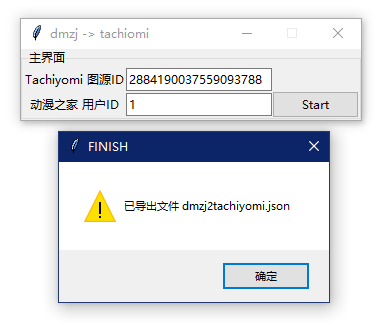
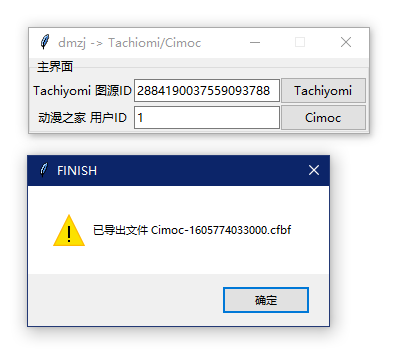
add cimoc

Changed region(s): [[0.0289, 0.0299, 0.9842, 0.9552]]

diff --git a/main.py b/main.py
@@ -2,16 +2,18 @@
 
 import json
 import re
+import time
 import tkinter as tk
 from threading import Thread
 from tkinter import messagebox, ttk
+from typing import Generator
 
 import requests
 from lxml import etree
 
 
 class transfer(object):
-    def hisSubscribe(self, page) -> set:
+    def hisSubscribe(self, page) -> Generator:
         data = {
             'page': page,
             'type_id': '1',
@@ -29,54 +31,86 @@ class transfer(object):
         if len(table) <= 0:
             raise ValueError
         for x in table:
-            title = ''.join(x.xpath('./dd/a[@class="title"]/text()'))
-            comicid = ''.join(
-                x.xpath('./dd/a[@class="addSubBtn dread_btn"]/@onclick'))
-            comicid = ''.join(re.findall(r'\d+', comicid))
-            yield (comicid, title)
+            title = x.xpath('./dd/a[@class="title"]/text()')[0]
+            comicid = x.xpath('./dd/a[@class="addSubBtn dread_btn"]/@onclick')[0]
+            comicid = re.findall(r'\d+', comicid)[0]
+            print(comicid)
+            cover = x.xpath('./dt/a/img/@src')[0]
+            yield (comicid, title, cover)
 
     def turnPage(self):
         p = 1
-        comicList = []
+        self.comicList = []
         while True:
             try:
-                comicList += [{
-                    "manga": [
-                        f"/comic/comic_{comic[0]}.json?version=2.7.019",
-                        comic[1], self.comicSourceID, 0, 0
-                    ]
-                } for comic in self.hisSubscribe(p)]
+                self.comicList += [
+                    {
+                        "id": comic[0],
+                        "title": comic[1],
+                        "cover": comic[2]  # Comic 必须要此字段
+                    } for comic in self.hisSubscribe(p)
+                ]
             except ValueError:
                 break
             p += 1
 
-        backupData = {
-            "version": 2,
-            "mangas": comicList,
-            "categories": [],
-            "extensions": [f"{self.comicSourceID}:动漫之家"]
-        }
-        with open('dmzj2tachiyomi.json', 'w', encoding='utf-8-sig') as f:
-            json.dump(backupData, f, ensure_ascii=False)
-
-    def check(self):
+    def check(self, dist):
         self.comicSourceID = self.sourceIDBox.get()
         self.uid = self.userIDBox.get()
-        if self.comicSourceID.isdigit() and self.uid.isdigit():
-            self.turnPage()
-        else:
-            messagebox.showwarning(u'ERROR', u'无效的源ID或用户ID')
+        if not self.uid.isdigit():
+            messagebox.showwarning(u'ERROR', u'无效的用户ID')
             return None
-        messagebox.showwarning(u'FINISH', u'已导出文件 dmzj2tachiyomi.json')
+        favorite = round(time.time()) * 1000  # Comic 必须要此字段
+        if dist == 1:
+            if not self.comicSourceID.isdigit():
+                messagebox.showwarning(u'ERROR', u'无效的源ID')
+                return None
+            self.turnPage()
+            comicList = [{
+                "manga": [
+                    f"/comic/comic_{comic['id']}.json?version=2.7.019",
+                    comic['title'], self.comicSourceID, 0, 0
+                ]
+            } for comic in self.comicList]
+            backup = {
+                "version": 2,
+                "mangas": comicList,
+                "categories": [],
+                "extensions": [f"{self.comicSourceID}:动漫之家"]
+            }
+            with open(f'Tachiyomi-{favorite}.json', 'w',
+                      encoding='utf-8-sig') as f:
+                json.dump(backup, f, ensure_ascii=False)
+            messagebox.showwarning(u'FINISH',
+                                   f'已导出文件 Tachiyomi-{favorite}.json')
+        elif dist == 2:
+            self.turnPage()
+            comicList = [{
+                "source": 10,
+                "cid": f"{comic['id']}",
+                "title": f"{comic['title']}",
+                "cover": f"{comic['cover']}",
+                "finish": False,
+                "favorite": favorite
+            } for comic in self.comicList]
+            backup = {
+                "version": 1,
+                "comic": comicList,
+            }
+            with open(f'Cimoc-{favorite}.cfbf', 'w',
+                      encoding='utf-8-sig') as f:
+                json.dump(backup, f, ensure_ascii=False,
+                          separators=(',', ':'))  # Comic 备份文件不能有换行和空格
+            messagebox.showwarning(u'FINISH', f'已导出文件 Cimoc-{favorite}.cfbf')
 
-    def run(self):
-        task = Thread(target=self.check)
+    def run(self, dist):
+        task = Thread(target=self.check, args=(dist, ))
         task.setDaemon(True)
         task.start()
 
     def __init__(self):
         window = tk.Tk()
-        window.title("dmzj -> tachiomi")
+        window.title("dmzj -> Tachiomi/Cimoc")
         window.resizable(False, False)
         mainFrame = ttk.LabelFrame(window, width=200, text='主界面')
         mainFrame.grid(column=0, row=0)
@@ -94,7 +128,13 @@ class transfer(object):
                                       textvariable=self.userIDBox)
         userIDBox_entered.grid(column=1, row=1)
 
-        RunButton = ttk.Button(mainFrame, text='Start', command=self.run)
+        RunButton = ttk.Button(mainFrame,
+                               text='Tachiyomi',
+                               command=lambda: self.run(1))
+        RunButton.grid(column=2, row=0)
+        RunButton = ttk.Button(mainFrame,
+                               text='Cimoc',
+                               command=lambda: self.run(2))
         RunButton.grid(column=2, row=1)
         window.mainloop()
 

diff --git a/README.md b/README.md
@@ -1,10 +1,14 @@
 # 动漫之家订阅导出工具
 
-导出动漫之家的漫画订阅到[Tachiyomi](https://github.com/inorichi/tachiyomi)
+导出动漫之家的漫画订阅到[Tachiyomi](https://github.com/inorichi/tachiyomi) 和 Cimoc([feilongfl](https://github.com/feilongfl/Cimoc)/[Haleydu](https://github.com/Haleydu/Cimoc))
 
 ## 使用方式
 
+Cimoc备份路径在 sdcard\Cimoc\backup
+Tachiyomi备份路径在 sdcard\Download
+
 1. 网页端登录[动漫之家](https://i.dmzj.com/my)，找到自己的UID
+Cimoc用户可以跳过 2-4 直接导出cfbf文件，在Cimoc中选择恢复备份。
 ![](img/uid.png)
 
 2. 在[Tachiyomi](https://github.com/inorichi/tachiyomi)中添加动漫之家，收藏任一漫画，创建备份
@@ -18,6 +22,7 @@
 
 5. EOF
 
-## TODO
+## 注意
 
-- [ ] 同时支持Cimoc
+- Cimoc只确认了目前 [feilongfl](https://github.com/feilongfl/Cimoc)/[Haleydu](https://github.com/Haleydu/Cimoc) 维护的两个分支确认可正常导入，其他分支版本可自行测试，理论无异。
+- Tachiyomi导入时会联网获取章节信息，对于已失效的漫画会报错，属于正常现象，请查看报错内容自行核对。
